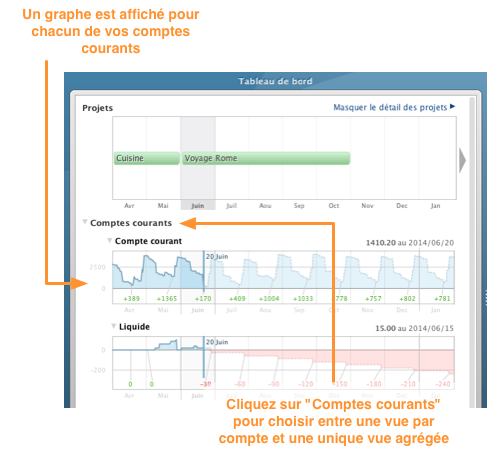
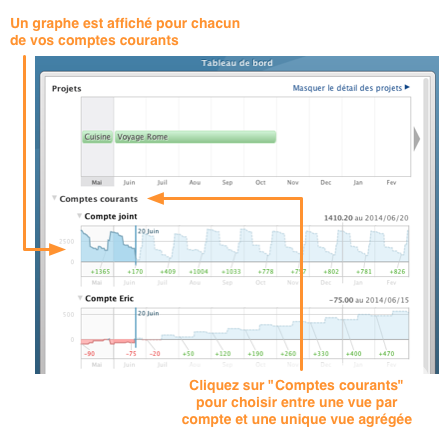
Site: prepa message 3.14

diff --git a/picsou/picsou/website/fr/content/support/versions/v3_14b.html b/picsou/picsou/website/fr/content/support/versions/v3_14b.html
@@ -1,98 +1,59 @@
-<p>La prochaine version de BudgetView comporte deux évolutions importantes :</p>
+<p>BudgetView évolue depuis des années sur la base des suggestions que vous nous envoyez. Les deux plus
+    fréquentes ces derniers mois étaient d'une part la possibilité de suivre plusieurs comptes courants individuellement,
+    et d'autre part de pouvoir regrouper les enveloppes pour y voir plus clair dans votre budget.
+</p>
 
 
 <h2>Suivi par comptes</h2>
 
-<p> Auparavant, tous vos comptes courants étaient fusionnés dans la vue Budget.
-    Il vous était alors impossible d'anticiper le découvert d'un compte précis.</p>
+<p>La nouvelle version de BudgetView vous permet de gérer finement plusieurs comptes courants simultanément.
+    Cela est utile par exemple lorsque vous disposez d'un compte joint et de comptes personnels.<p>
+<p>Voici par exemple la nouvelle vue Budget&nbsp;:</p>
 
-<p>La nouvelle version de BudgetView remédie à cela en représentant individuellement chacun de vos comptes courants.
-    Voici par exemple la nouvelle vue Budget&nbsp;:</p>
-
-<div class="centered">
+<div class="centered-image">
     <img src="/files/images_fr/support/versions/v3_14b/multi_comptes_vue_budget.png"/>
 </div>
 
-<p style="margin-top:20px;">
-    Les graphiques de la vue Tableau de Bord sont eux aussi séparés par compte&nbsp;:
-</p>
-<div class="centered">
+<p>Les graphiques de la vue Tableau de Bord sont eux aussi séparés par compte&nbsp;:</p>
+<div class="centered-image">
     <img src="/files/images_fr/support/versions/v3_14b/multi_comptes_tableau_de_bord.png"/>
 </div>
-
-<p>Cette évolution a une conséquence importante&nbsp;: chaque enveloppe ou chaque élément de projet doit
-  dorénavant être associé à un et un seul compte courant.</p>
 
 
 <h2>Groupes d'enveloppes</h2>
 
 <p>Pour y voir plus clair dans votre budget, vous pouvez placer plusieurs enveloppes dans un même groupe comme
     suit&nbsp;:</p>
-
-<div class="centered">
+<div class="centered-image">
     <img src="/files/images_fr/support/versions/v3_14b/groupes_enveloppes.png"/>
 </div>
 
-<p style="margin-top:20px;">
-    Pour ajouter une enveloppe dans un nouveau groupe ou un groupe existant, cliquez sur son nom dans la vue Budget&nbsp;:
-</p>
-<div class="centered">
+<p>Pour ajouter une enveloppe dans un nouveau groupe ou un groupe existant,
+    cliquez sur son nom dans la vue Budget&nbsp;:</p>
+<div class="centered-image">
     <img src="/files/images_fr/support/versions/v3_14b/ajout_enveloppe_groupe.png"/>
 </div>
 
+<p>A la différence des sous-enveloppes qui sont proposées depuis longtemps dans l'application,
+    les groupes d'enveloppes vous permettent de gérer un budget prévu au niveau de chaque élément.
+    Vous pouvez y voir plus clair dans votre budget sans perdre le finesse de votre prévisionnel.
+</p>
 
-<h2>Mise à jour de vos données</h2>
+<h2>Déjà utilisateur de BudgetView&nbsp;?</h2>
 
-<p>Au moment de lancer cette nouvelle version, vos données seront mises à jour comme suit&nbsp;:</p>
-<ul>
-    <li>
-        Un compte sera associé à chacune de vos enveloppes sur la base des opérations qui leur ont déjà été affectées.
-        Dans le cas où ces opérations concernaient plusieurs comptes, un groupe d'enveloppes sera automatiquement créé
-        avec une enveloppe par compte.
-    </li>
-    <li>
-        Dans la même logique, un compte sera affecté à chaque élément de projet sur la base des opérations déjà
-        affectées. Dans le cas où des opérations de comptes différents auraient été assignées à un même élément de projet,
-        celui-ci sera automatiquement dupliqué dans le projet de manière à ce que chaque élément ne concerne qu'un
-        seul compte.
-    </li>
-</ul>
-<p>Pour que vous puissiez essayer cette version sans risque pour vos données, nous vous avons préparé une version
-    spéciale de l'application présentée ci-dessous.</p>
+<p>Le suite individuel des comptes courants implique une conséquence importante&nbsp;:
+    chaque enveloppe ou chaque élément de projet doit dorénavant être associé à un et un seul compte courant.</p>
 
+<p>De ce fait, vos données doivent être revues pour être compatibles avec cette nouvelle version.
+    Pour en savoir plus, suivez notre <a href="/support/versions/v3-14b-maj" class="highlighted">guide de mise à jour</a>.</p>
 
-<h2>Application "Preview"</h2>
+<h2>Essayez-le!</h2>
 
-<p>Nous mettons à votre disposition une version "visualisation seule" de l'application qui n'a pas besoin d'être
-    installée et qui n'a aucune interaction avec votre répertoire de données.</p>
-<p>Pour l'utiliser&nbsp;:</p>
-<ol>
-    <li>Créez un <a href="/support/faq/general/sauvegarde">fichier de sauvegarde</a> de vos données avec votre application BudgetView existante.
-        Notez bien l'endroit où vous placez cette sauvegarde sur votre ordinateur.</li>
-    <li>Téléchargez la version "Visualisation seule" ici&nbsp;:
-        <a href="/files/app/BudgetView-3.14b-fr-preview.exe">Windows</a> |
-        <a href="/files/app/BudgetView-3.14b-fr-preview.dmg">Mac</a> |
-        <a href="/files/app/budgetview-3.13-fr-preview.tar.gz">Linux</a></li>
-    <li>Lancez l'application en question en double-cliquant sur son icône dans le répertoire "Téléchargements" utilisé par votre navigateur.</li>
-    <li>Restaurez votre fichier de sauvegarde pour retrouver vos données mises à jour.</li>
-</ol>
-<p>Nous vous invitons alors à vérifier que vos enveloppes et projets sont corrects, et que les éventuels
-   groupes d'enveloppés créés automatiquement vous conviennent.</p>
-<p>Si tout fonctionne correctement, vous pouvez installer l'application en avant-première en téléchargeant
-    le programme d'installation :
-    <a href="/files/app/BudgetView-3.14b-fr.exe">Windows</a> |
-    <a href="/files/app/BudgetView-3.14b-fr.dmg">Mac</a> |
-    <a href="/files/app/budgetview-3.13-fr.tar.gz">Linux</a></p>
-<p>La mise à jour automatique sera activée d'ici quelques semaines. </p>
-
-<h2>Vos retours sont importants !</h2>
-
-<p>Qu'en dites-vous ? Cela vous convient-il ? Vos données ont-elles bien été mises à jour ? Tenez-nous au courant. 8^) </p>
+<p>Pour découvrir ces évolutions par vous-même&nbsp;:</p>
 
 <div class="centered">
-    <a href="mailto:support@mybudgetview.fr">
-        <button type="button" class="btn btn-primary">Contactez-nous !</button>
+    <a href="/telechargement">
+        <button type="button" class="btn btn-primary">Téléchargez BudgetView maintenant !</button>
     </a>
 </div>
-
 

diff --git a/picsou/picsou/website/fr/content/support/versions/v3_14b_maj.html b/picsou/picsou/website/fr/content/support/versions/v3_14b_maj.html
@@ -1,0 +1,59 @@
+<h2>Principaux changements</h2>
+
+<p>Au moment de lancer cette nouvelle version, vos données seront mises à jour comme suit&nbsp;:</p>
+<ul>
+    <li>
+        <b>Un compte sera associé à chacune de vos enveloppes</b> sur la base des opérations qui leur ont déjà été affectées.
+        Dans le cas où ces opérations concernaient plusieurs comptes, un groupe d'enveloppes sera automatiquement créé
+        avec une enveloppe par compte.
+    </li>
+    <li>
+        <b>Un compte sera affecté à chaque élément de projet</b> sur la base des opérations déjà
+        affectées. Dans le cas où des opérations de comptes différents auraient été assignées à un même élément de projet,
+        celui-ci sera automatiquement dupliqué dans le projet de manière à ce que chaque élément ne concerne qu'un
+        seul compte.
+    </li>
+</ul>
+<p>Pour que vous puissiez essayer cette version sans risque pour vos données, nous vous avons préparé une version
+    spéciale de l'application présentée ci-dessous.</p>
+
+<h2>Application "Preview"</h2>
+
+<p>Nous mettons à votre disposition une version "visualisation seule" de l'application qui n'a pas besoin d'être
+    installée et n'a aucune interaction avec votre répertoire de données. Celle-ci vous permettra de vérifier
+    sans risque que la migration se passe bien.</p>
+<p>Pour l'utiliser&nbsp;:</p>
+<ol>
+    <li><b>Créez tout d'abord un <a href="/support/faq/general/sauvegarde" class="highlighted">fichier de sauvegarde</a>
+        de vos données</b> avec votre application BudgetView existante.
+        Notez bien l'endroit où vous placez cette sauvegarde sur votre ordinateur.</li>
+    <li>Téléchargez la version "Visualisation seule" ici&nbsp;:
+        <a href="/files/app/BudgetView-3.14b-fr-preview.exe">Windows</a> |
+        <a href="/files/app/BudgetView-3.14b-fr-preview.dmg">Mac</a> |
+        <a href="/files/app/budgetview-3.13-fr-preview.tar.gz">Linux</a></li>
+    <li>Lancez l'application en question en double-cliquant sur son icône dans le répertoire "Téléchargements" utilisé par votre navigateur.</li>
+    <li>Restaurez votre fichier de sauvegarde pour retrouver vos données mises à jour.</li>
+</ol>
+<p>Nous vous invitons alors à vérifier que vos enveloppes et projets sont corrects, et que les éventuels
+    groupes d'enveloppés créés automatiquement vous conviennent.</p>
+
+<h2>Ajustements</h2>
+
+<p>Les enveloppes créées par le logiciel lors de la mise à jour sont peut-être mal configurées -
+    certaines informations ne peuvent en effet être déterminées de manière complètement automatique.
+    Nous vous invitons en particulier à contrôler et ajuster les montants prévus de vos enveloppes
+    et de vos projets.</p>
+
+<p>Si vous avez des questions ou rencontrez des difficultés, n'hésitez pas&nbsp;:
+    <a href="mailto:support@mybudgetview.fr" class="highlighted">contactez-nous&nbsp;!</a>
+</p>
+
+
+<h2>Installation</h2>
+
+<p>Si tout fonctionne correctement, vous pouvez installer BudgetView 3.14b en avant-première en téléchargeant
+    le programme d'installation&nbsp;:
+    <a href="/files/app/BudgetView-3.14b-fr.exe">Windows</a> |
+    <a href="/files/app/BudgetView-3.14b-fr.dmg">Mac</a> |
+    <a href="/files/app/budgetview-3.13-fr.tar.gz">Linux</a></p>
+<p>Si vous préférez attendre, la mise à jour automatique sera activée d'ici quelques semaines. </p>

diff --git a/picsou/picsou/website/resources/css/styles.css b/picsou/picsou/website/resources/css/styles.css
@@ -24,6 +24,11 @@ button.btn {
  text-align: center;
 }
 
+div.centered-image {
+ text-align: center;
+ margin-bottom: 10px;
+}
+
 .container {
   max-width: 900px;
 }
